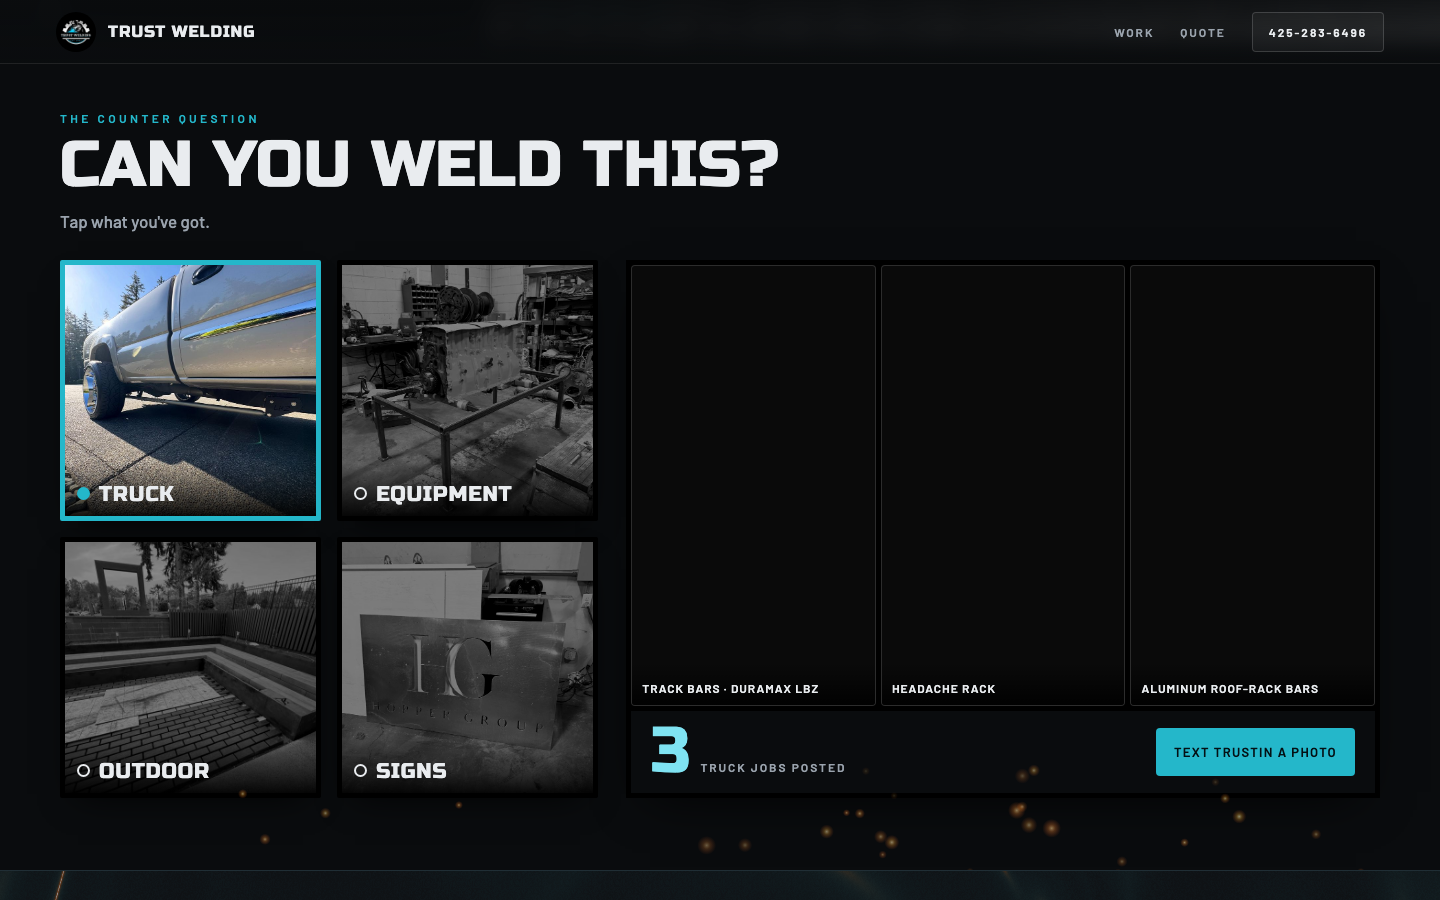
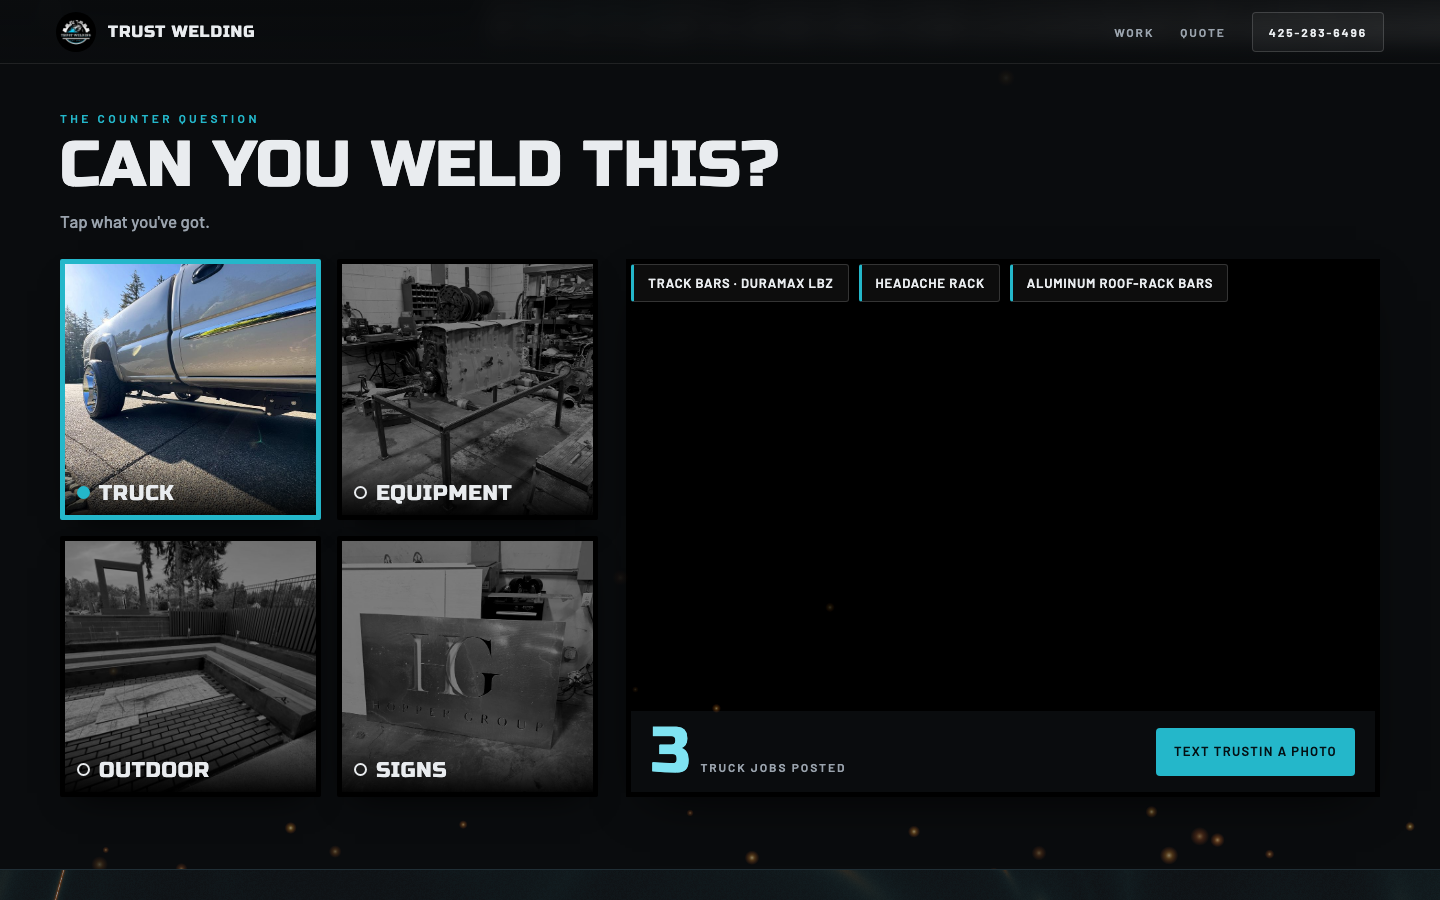
Trust Welding learned pass: the gadget's caption chips are chips, not empty frames

diff --git a/trust-welding/learned/index.html b/trust-welding/learned/index.html
@@ -9,11 +9,11 @@
 <meta name="description" content="Trust Welding: custom metal fabrication and mobile welding serving King County. Steel, aluminum and Corten. Call or text 425-283-6496.">
 <link rel="preconnect" href="https://fonts.googleapis.com"><link rel="preconnect" href="https://fonts.gstatic.com" crossorigin>
 <link href="https://fonts.googleapis.com/css2?family=Russo+One&family=Barlow:wght@400;500;600&family=Archivo:wght@600;700&display=swap" rel="stylesheet">
-<link rel="stylesheet" href="css/site3.css?v=1793905523">
-<link rel="stylesheet" href="css/fold-text.css?v=1793905523">
-<link rel="stylesheet" href="css/wtj.css?v=1793905523">
-<link rel="stylesheet" href="css/molten-metal.css?v=1793905523">
-<link rel="stylesheet" href="css/learned.css?v=1793905523">
+<link rel="stylesheet" href="css/site3.css?v=1793905711">
+<link rel="stylesheet" href="css/fold-text.css?v=1793905711">
+<link rel="stylesheet" href="css/wtj.css?v=1793905711">
+<link rel="stylesheet" href="css/molten-metal.css?v=1793905711">
+<link rel="stylesheet" href="css/learned.css?v=1793905711">
 <link rel="icon" href="images/badge.jpg">
 </head>
 <body>
@@ -130,9 +130,9 @@
 </footer>
 <script src="js/vendor/gsap.min.js"></script>
 <script src="js/vendor/ScrollTrigger.min.js"></script>
-<script src="js/vendor/fold-text.js?v=1793905523"></script>
-<script src="js/vendor/wtj/click-spark.js?v=1793905523"></script>
-<script src="js/vendor/wtj/whats-the-job.js?v=1793905523"></script>
+<script src="js/vendor/fold-text.js?v=1793905711"></script>
+<script src="js/vendor/wtj/click-spark.js?v=1793905711"></script>
+<script src="js/vendor/wtj/whats-the-job.js?v=1793905711"></script>
 <script>
 // the panel holds; the section changes every 4 photos (the photo column's scroll progress); every time a section opens its words fold open (React Bits Fold Text, ported: js/vendor/fold-text.js)
 gsap.registerPlugin(ScrollTrigger);
@@ -200,7 +200,7 @@ if (!reduce) {
   requestAnimationFrame(tick);
 })();
 </script>
-<script src="js/learned.js?v=1793905523"></script>
+<script src="js/learned.js?v=1793905711"></script>
 <script>
 // Format panel (Hayden 11/4: "themes or formats… for me to manually adjust and edit"): localhost or ?edit=1; sliders set CSS variables on <html>, remembered in localStorage 'tw-format'; Copy puts the JSON on the clipboard
 if ((location.hostname === 'localhost' || location.search.includes('edit=1')) && !location.search.includes('nofmt')) (function () {

diff --git a/trust-welding/versions/learned.html b/trust-welding/versions/learned.html
@@ -9,11 +9,11 @@
 <meta name="description" content="Trust Welding: custom metal fabrication and mobile welding serving King County. Steel, aluminum and Corten. Call or text 425-283-6496.">
 <link rel="preconnect" href="https://fonts.googleapis.com"><link rel="preconnect" href="https://fonts.gstatic.com" crossorigin>
 <link href="https://fonts.googleapis.com/css2?family=Russo+One&family=Barlow:wght@400;500;600&family=Archivo:wght@600;700&display=swap" rel="stylesheet">
-<link rel="stylesheet" href="css/site3.css?v=1793905523">
-<link rel="stylesheet" href="css/fold-text.css?v=1793905523">
-<link rel="stylesheet" href="css/wtj.css?v=1793905523">
-<link rel="stylesheet" href="css/molten-metal.css?v=1793905523">
-<link rel="stylesheet" href="css/learned.css?v=1793905523">
+<link rel="stylesheet" href="css/site3.css?v=1793905711">
+<link rel="stylesheet" href="css/fold-text.css?v=1793905711">
+<link rel="stylesheet" href="css/wtj.css?v=1793905711">
+<link rel="stylesheet" href="css/molten-metal.css?v=1793905711">
+<link rel="stylesheet" href="css/learned.css?v=1793905711">
 <link rel="icon" href="images/badge.jpg">
 </head>
 <body>
@@ -130,9 +130,9 @@
 </footer>
 <script src="js/vendor/gsap.min.js"></script>
 <script src="js/vendor/ScrollTrigger.min.js"></script>
-<script src="js/vendor/fold-text.js?v=1793905523"></script>
-<script src="js/vendor/wtj/click-spark.js?v=1793905523"></script>
-<script src="js/vendor/wtj/whats-the-job.js?v=1793905523"></script>
+<script src="js/vendor/fold-text.js?v=1793905711"></script>
+<script src="js/vendor/wtj/click-spark.js?v=1793905711"></script>
+<script src="js/vendor/wtj/whats-the-job.js?v=1793905711"></script>
 <script>
 // the panel holds; the section changes every 4 photos (the photo column's scroll progress); every time a section opens its words fold open (React Bits Fold Text, ported: js/vendor/fold-text.js)
 gsap.registerPlugin(ScrollTrigger);
@@ -200,7 +200,7 @@ if (!reduce) {
   requestAnimationFrame(tick);
 })();
 </script>
-<script src="js/learned.js?v=1793905523"></script>
+<script src="js/learned.js?v=1793905711"></script>
 <script>
 // Format panel (Hayden 11/4: "themes or formats… for me to manually adjust and edit"): localhost or ?edit=1; sliders set CSS variables on <html>, remembered in localStorage 'tw-format'; Copy puts the JSON on the clipboard
 if ((location.hostname === 'localhost' || location.search.includes('edit=1')) && !location.search.includes('nofmt')) (function () {

diff --git a/trust-welding/css/learned.css b/trust-welding/css/learned.css
@@ -60,4 +60,6 @@
 body.thumb-on{padding-bottom:72px}@media (max-width:900px){body.thumb-on .panel{bottom:72px}}
 /* critic 11/5: the form breathes; five fields */
 .contact-form{display:grid;gap:14px}.contact-form label{display:grid;gap:6px}
-.wtj-chip{display:inline-flex;align-items:center;padding:8px 12px;border:1px solid rgba(255,255,255,.14);border-radius:4px;font:600 13px/1.2 var(--body);color:#E9ECEF;background:rgba(255,255,255,.04)}
+.wtj-photos:has(.wtj-chip){display:flex;flex-wrap:wrap;gap:10px;align-content:flex-start;grid-template-columns:none}
+.wtj-photos figure.wtj-chip{position:static;aspect-ratio:auto;width:auto;height:auto;min-height:0;margin:0;padding:10px 14px;border:1px solid rgba(255,255,255,.16);border-left:3px solid var(--spark);border-radius:3px;background:rgba(255,255,255,.05);box-shadow:none;overflow:visible}
+.wtj-photos figure.wtj-chip figcaption{position:static;padding:0;margin:0;background:none;font:600 13px/1.25 var(--body);letter-spacing:.06em;text-transform:uppercase;color:#E9ECEF}
